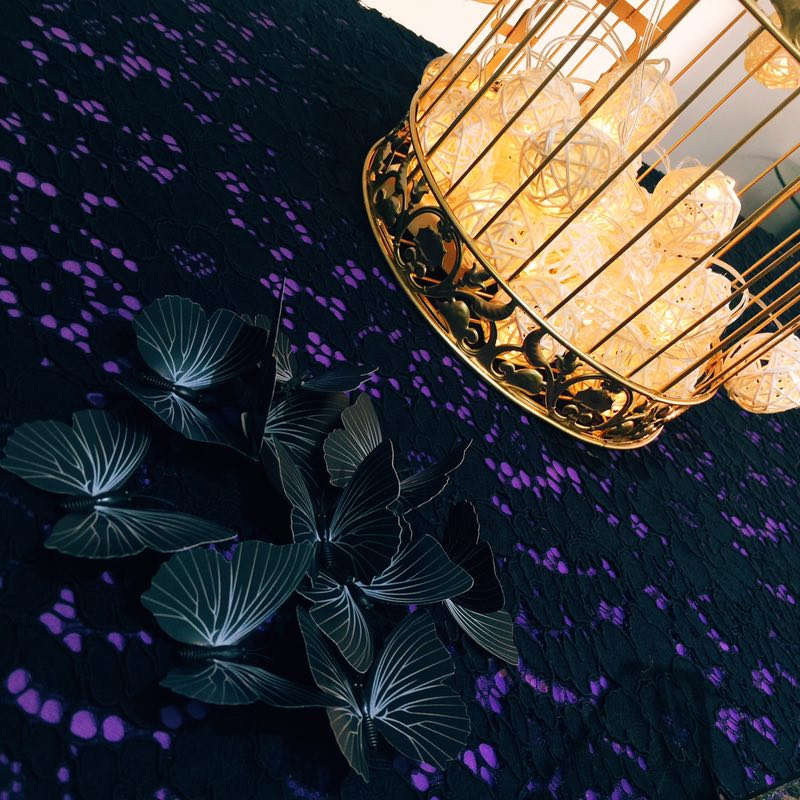
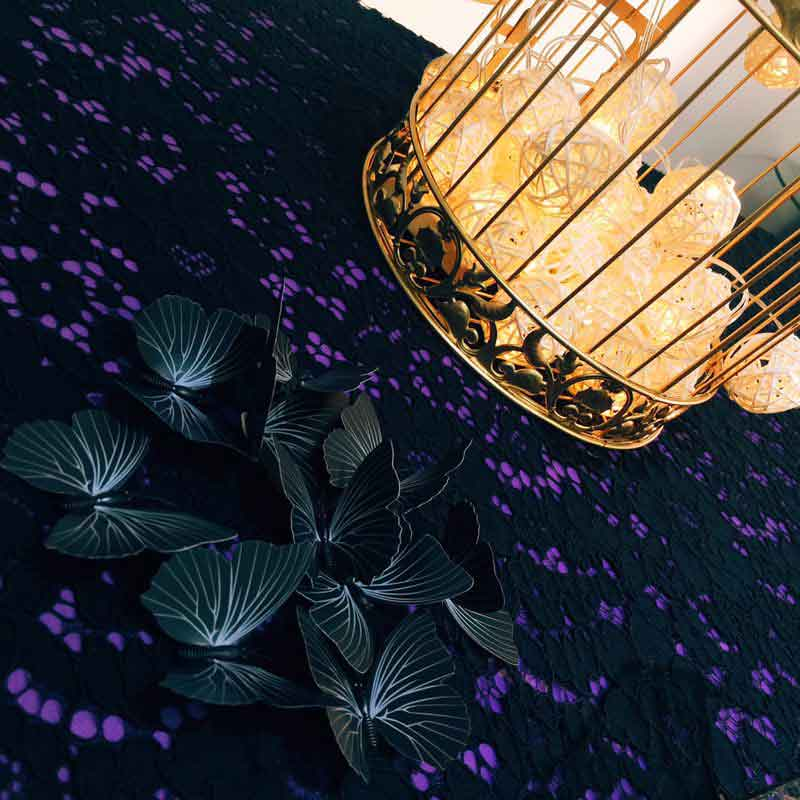
更改图片

diff --git a/飞博/index.html b/飞博/index.html
@@ -71,7 +71,7 @@
 		</div>
 		<div class="new_list">
 			<div class="new_box">
-				<a href="#"><img src="img/new1.png"></a>
+				<a href="#"><img src="img/new1.jpg"></a>
 				<a href="#" class="new_title">
 					神秘高贵的你，在哪里
 					<p class="time"><img src="img/time.png">2017-1-1</p>
@@ -85,7 +85,7 @@
 				</a>
 			</div>
 			<div class="new_box">
-				<a href="#"><img src="img/new3.png"></a>
+				<a href="#"><img src="img/new3.jpg"></a>
 				<a href="#" class="new_title">
 					神秘高贵的你，在哪里
 					<p class="time"><img src="img/time.png">2017-1-1</p>
